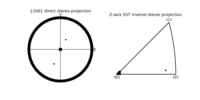
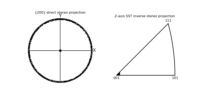
corrected examples according to recent changes in the Microstructure class

diff --git a/examples/plotting/Cu_200_pole_figure.py b/examples/plotting/Cu_200_pole_figure.py
@@ -1,29 +1,28 @@
 #!/usr/bin/env python
 import os, numpy as np
-from pymicro.crystal.microstructure import Microstructure, Grain, Orientation
+from pymicro.crystal.microstructure import Microstructure
 from pymicro.crystal.texture import PoleFigure
-from matplotlib import pyplot as plt, colors, cm
 
 if __name__ == '__main__':
     '''
     200 Pole figure of a copper sample containing 10000 grains with a fibre
     texture.
     '''
-    eulers = Orientation.read_euler_txt('../data/Cu_200.dat')
-    micro = Microstructure(name='Cu_200')
-    for index in eulers:
-        # if index > 1000: continue
-        micro.grains.append(Grain(index, eulers[index]))
+    euler_list = np.genfromtxt('../data/Cu_200.dat', usecols=(0, 1, 2), max_rows=1000)
+    micro = Microstructure(name='Cu_200', autodelete=True)
+    micro.add_grains(euler_list)
 
     # create pole figure (both direct and inverse)
-    pf = PoleFigure(hkl='200', proj='stereo', microstructure=micro, verbose=False)
+    pf = PoleFigure(hkl='200', proj='stereo', microstructure=micro)
     pf.color_by_grain_id = False
     pf.mksize = 5
     pf.pflegend = False
     pf.plot_pole_figures(plot_sst=True, display=False, save_as='png')
+    del pf
+    del micro
 
     image_name = os.path.splitext(__file__)[0] + '.png'
-    print('writting %s' % image_name)
+    print('writing %s' % image_name)
 
     from matplotlib import image
 

diff --git a/examples/plotting/Cu_111_pole_figure.py b/examples/plotting/Cu_111_pole_figure.py
@@ -1,28 +1,28 @@
 #!/usr/bin/env python
 import os, numpy as np
-from pymicro.crystal.microstructure import Microstructure, Grain, Orientation
+from pymicro.crystal.microstructure import Microstructure
 from pymicro.crystal.texture import PoleFigure
-from matplotlib import pyplot as plt, colors, cm
 
 if __name__ == '__main__':
-    '''
+    """
     111 Pole figure of a copper sample containing 10000 grains with a fibre
     texture.
-    '''
-    eulers = Orientation.read_euler_txt('../data/Cu_111.dat')
-    micro = Microstructure(name='Cu_111')
-    for index in eulers:
-        micro.grains.append(Grain(index, eulers[index]))
+    """
+    euler_list = np.genfromtxt('../data/Cu_111.dat', usecols=(0, 1, 2), max_rows=1000)
+    micro = Microstructure(name='Cu_111', autodelete=True)
+    micro.add_grains(euler_list)
 
     # create pole figure (both direct and inverse)
-    pf = PoleFigure(hkl='111', proj='stereo', microstructure=micro, verbose=False)
+    pf = PoleFigure(hkl='111', proj='stereo', microstructure=micro)
     pf.color_by_grain_id = False
     pf.mksize = 5
     pf.pflegend = False
     pf.plot_pole_figures(plot_sst=True, display=False, save_as='png')
+    del pf
+    del micro
 
     image_name = os.path.splitext(__file__)[0] + '.png'
-    print('writting %s' % image_name)
+    print('writing %s' % image_name)
 
     from matplotlib import image
 

diff --git a/examples/plotting/random_texture_pole_figure_ipf.py b/examples/plotting/random_texture_pole_figure_ipf.py
@@ -1,0 +1,37 @@
+import os, numpy as np
+from pymicro.crystal.texture import PoleFigure
+from pymicro.crystal.microstructure import Microstructure
+
+if __name__ == '__main__':
+    """
+    Example of a pole figure of a random microstructure with 200 grains. The 
+    poles are colored according using IPF coloring and resized proportionally 
+    to each grain volume.
+    """
+    # create a microstructure with a random texture and 200 grains
+    micro = Microstructure.random_texture(n=200)
+    micro.autodelete = True
+
+    # set random values for the grain volumes
+    np.random.seed(22)
+    for g in micro.grains:
+        g['volume'] = 100 * np.random.random() ** 3
+        g.update()
+    micro.grains.flush()
+
+    # first pole figure
+    pf = PoleFigure(microstructure=micro)
+    pf.resize_markers = True
+    pf.set_hkl_poles('001')
+    pf.axis = 'Z'
+    pf.set_map_field('ipf')
+    pf.plot_pole_figures(plot_sst=True, display=False, save_as='png')
+    del pf
+    del micro
+
+    image_name = os.path.splitext(__file__)[0] + '.png'
+    print('writing %s' % image_name)
+
+    from matplotlib import image
+
+    image.thumbnail(image_name, 'thumb_' + image_name, 0.2)

diff --git a/examples/plotting/field_pole_figure.py b/examples/plotting/field_pole_figure.py
@@ -3,8 +3,8 @@ from pymicro.crystal.texture import *
 from matplotlib import pyplot as plt, colors, colorbar, cm
 
 if __name__ == '__main__':
-    '''This example demonstrate how a field can be used to color each
-    symbol on the pole figure with the :py:meth:~`pymicro.crystal.texture.set_map_field`
+    '''This example demonstrate how a field can be used to color each symbol on
+    the pole figure with the :py:meth:~`pymicro.crystal.texture.set_map_field`
     method.
     '''
     #orientations = Orientation.read_euler_txt('../data/orientation_set.inp')
@@ -34,8 +34,9 @@ if __name__ == '__main__':
     cb.set_label('Average strain (mm/mm)')
 
     image_name = os.path.splitext(__file__)[0] + '.png'
-    print('writting %s' % image_name)
+    print('writing %s' % image_name)
     plt.savefig('%s' % image_name, format='png')
+    del pf
     del micro
 
     from matplotlib import image

diff --git a/examples/plotting/field_ipf.py b/examples/plotting/field_ipf.py
@@ -4,7 +4,7 @@ from pymicro.crystal.microstructure import Microstructure, Grain, Orientation
 from matplotlib import pyplot as plt, colors, colorbar, cm
 
 '''
-An inverse pole figure with symboled colored by the grain size.
+An inverse pole figure with symbols colored by the grain size.
 '''
 euler_list = np.genfromtxt('../data/EBSD_20grains.txt', usecols=[1, 2, 3]).tolist()
 grain_sizes = np.genfromtxt('../data/EBSD_20grains.txt', usecols=[9])
@@ -29,8 +29,9 @@ cb = colorbar.ColorbarBase(ax2, cmap=cm.jet, norm=norm, orientation='vertical')
 cb.set_label('Grain size (pixels)')
 
 image_name = os.path.splitext(__file__)[0] + '.png'
-print('writting %s' % image_name)
+print('writing %s' % image_name)
 plt.savefig(image_name, format='png')
+del pf
 del micro
 
 from matplotlib import image

diff --git a/examples/plotting/Au_6grains_pole_figure.py b/examples/plotting/Au_6grains_pole_figure.py
@@ -30,9 +30,11 @@ if __name__ == '__main__':
     pf.set_map_field('grain_id')
     pf.pflegend = True  # this works well for a few grains
     pf.plot_pole_figures(plot_sst=True, display=False, save_as='png')
+    del pf
+    del micro
 
     image_name = os.path.splitext(__file__)[0] + '.png'
-    print('writting %s' % image_name)
+    print('writing %s' % image_name)
 
     from matplotlib import image
 
